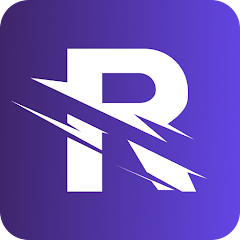
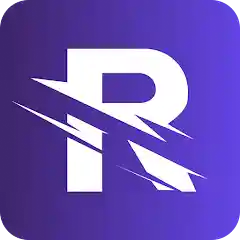
Add files via upload

diff --git a/src/App.jsx b/src/App.jsx
@@ -20,7 +20,7 @@ const App = () => {
         <Col md={4}>
           <div className="description-info">
             <h1>Manel Ponce</h1>
-            <Image src="/1662374677059.jpg" alt="" roundedCircle className='mb-3' />
+            <Image src="/1662374677059.webp" alt="" roundedCircle className='mb-3' />
           </div>
         </Col>
         <Col md={8} id="about">
@@ -55,7 +55,7 @@ const App = () => {
           </Col>
           <Col md={6}>
             <div className="project">
-              <Image src="/rickandmorty.png" alt="Project 2" rounded className='image' />
+              <Image src="/rickandmorty.webp" alt="Project 2" rounded className='image' />
               <h3>Rick and Morty API</h3>
               <p>Esto es un proyecto hecho con la api de rick and morty con react</p>
               <Button variant="primary" href="https://rickandmortyapis.netlify.app/">
